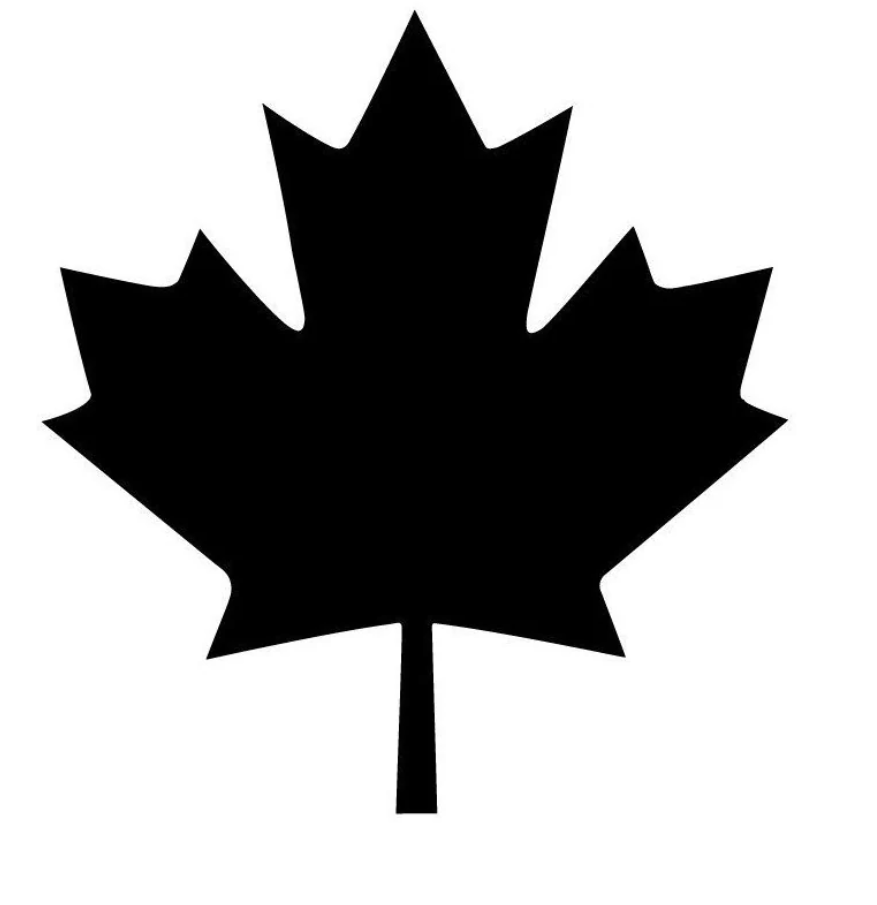
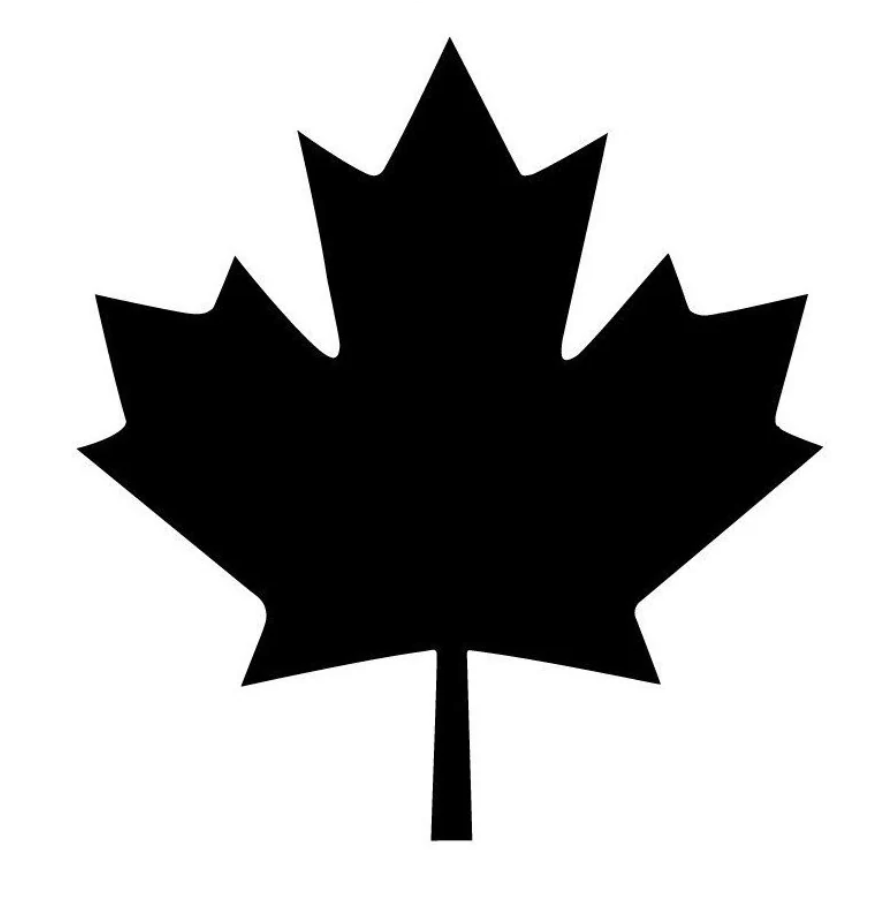
working for the maple leaf

Changed region(s): [[0.0308, 0.0, 0.9544, 0.9282], [0.2155, 0.5878, 0.2463, 0.6188], [0.1231, 0.526, 0.1539, 0.5569]]

diff --git a/main.py b/main.py
@@ -26,6 +26,7 @@ if __name__ == "__main__":
     # png_path = "images/too_big_tree.png"
     png_path = "images/maple_leaf.png"
     # png_path = "images/a_solid.png"
+    png_path = "images/maple_leaf_small.png"
 
     # Now we need to load in the image
     matrix = load_and_process_image(png_path)
@@ -43,8 +44,8 @@ if __name__ == "__main__":
     plot_edge_array(intermediate_edge, True)
 
     # Now we need to get all the trianges
-    slope_height = 6 * 256  # TODO - move 256 to a config file or something
-    cut_height = 12 * 256
+    slope_height = 6 * 3  # * 256  # TODO - move 256 to a config file or something
+    cut_height = 12 * 3  # * 256
     triangles = build_cookie_cutter_triangles(
         original_edge,
         intermediate_edge,
@@ -53,6 +54,8 @@ if __name__ == "__main__":
         slope_height,
         cut_height,
     )
+
+    triangles = triangles / 3
 
     if False:
         plot_stl_triangles(triangles, True)

diff --git a/stl_generation/matrix_to_edges.py b/stl_generation/matrix_to_edges.py
@@ -314,7 +314,7 @@ def edge_cleaning(edge):
 
 
 def process_matrix(matrix):
-    SCALE_FACTOR = 256  # TODO - Define in a config or something
+    # SCALE_FACTOR = 256  # TODO - Define in a config or something
     original_shape = matrix.copy()
 
     # How do we know how much to blur???
@@ -330,8 +330,8 @@ def process_matrix(matrix):
     intermediate_edge = edge_cleaning(intermediate_edge)
 
     # Scale the EDGES
-    original_edge = original_edge * SCALE_FACTOR
-    intermediate_edge = intermediate_edge * SCALE_FACTOR
+    # original_edge = original_edge * SCALE_FACTOR
+    # intermediate_edge = intermediate_edge * SCALE_FACTOR
 
     # Now we can generate the circles for the shape
     centroid = np.mean(intermediate_edge, axis=0)
